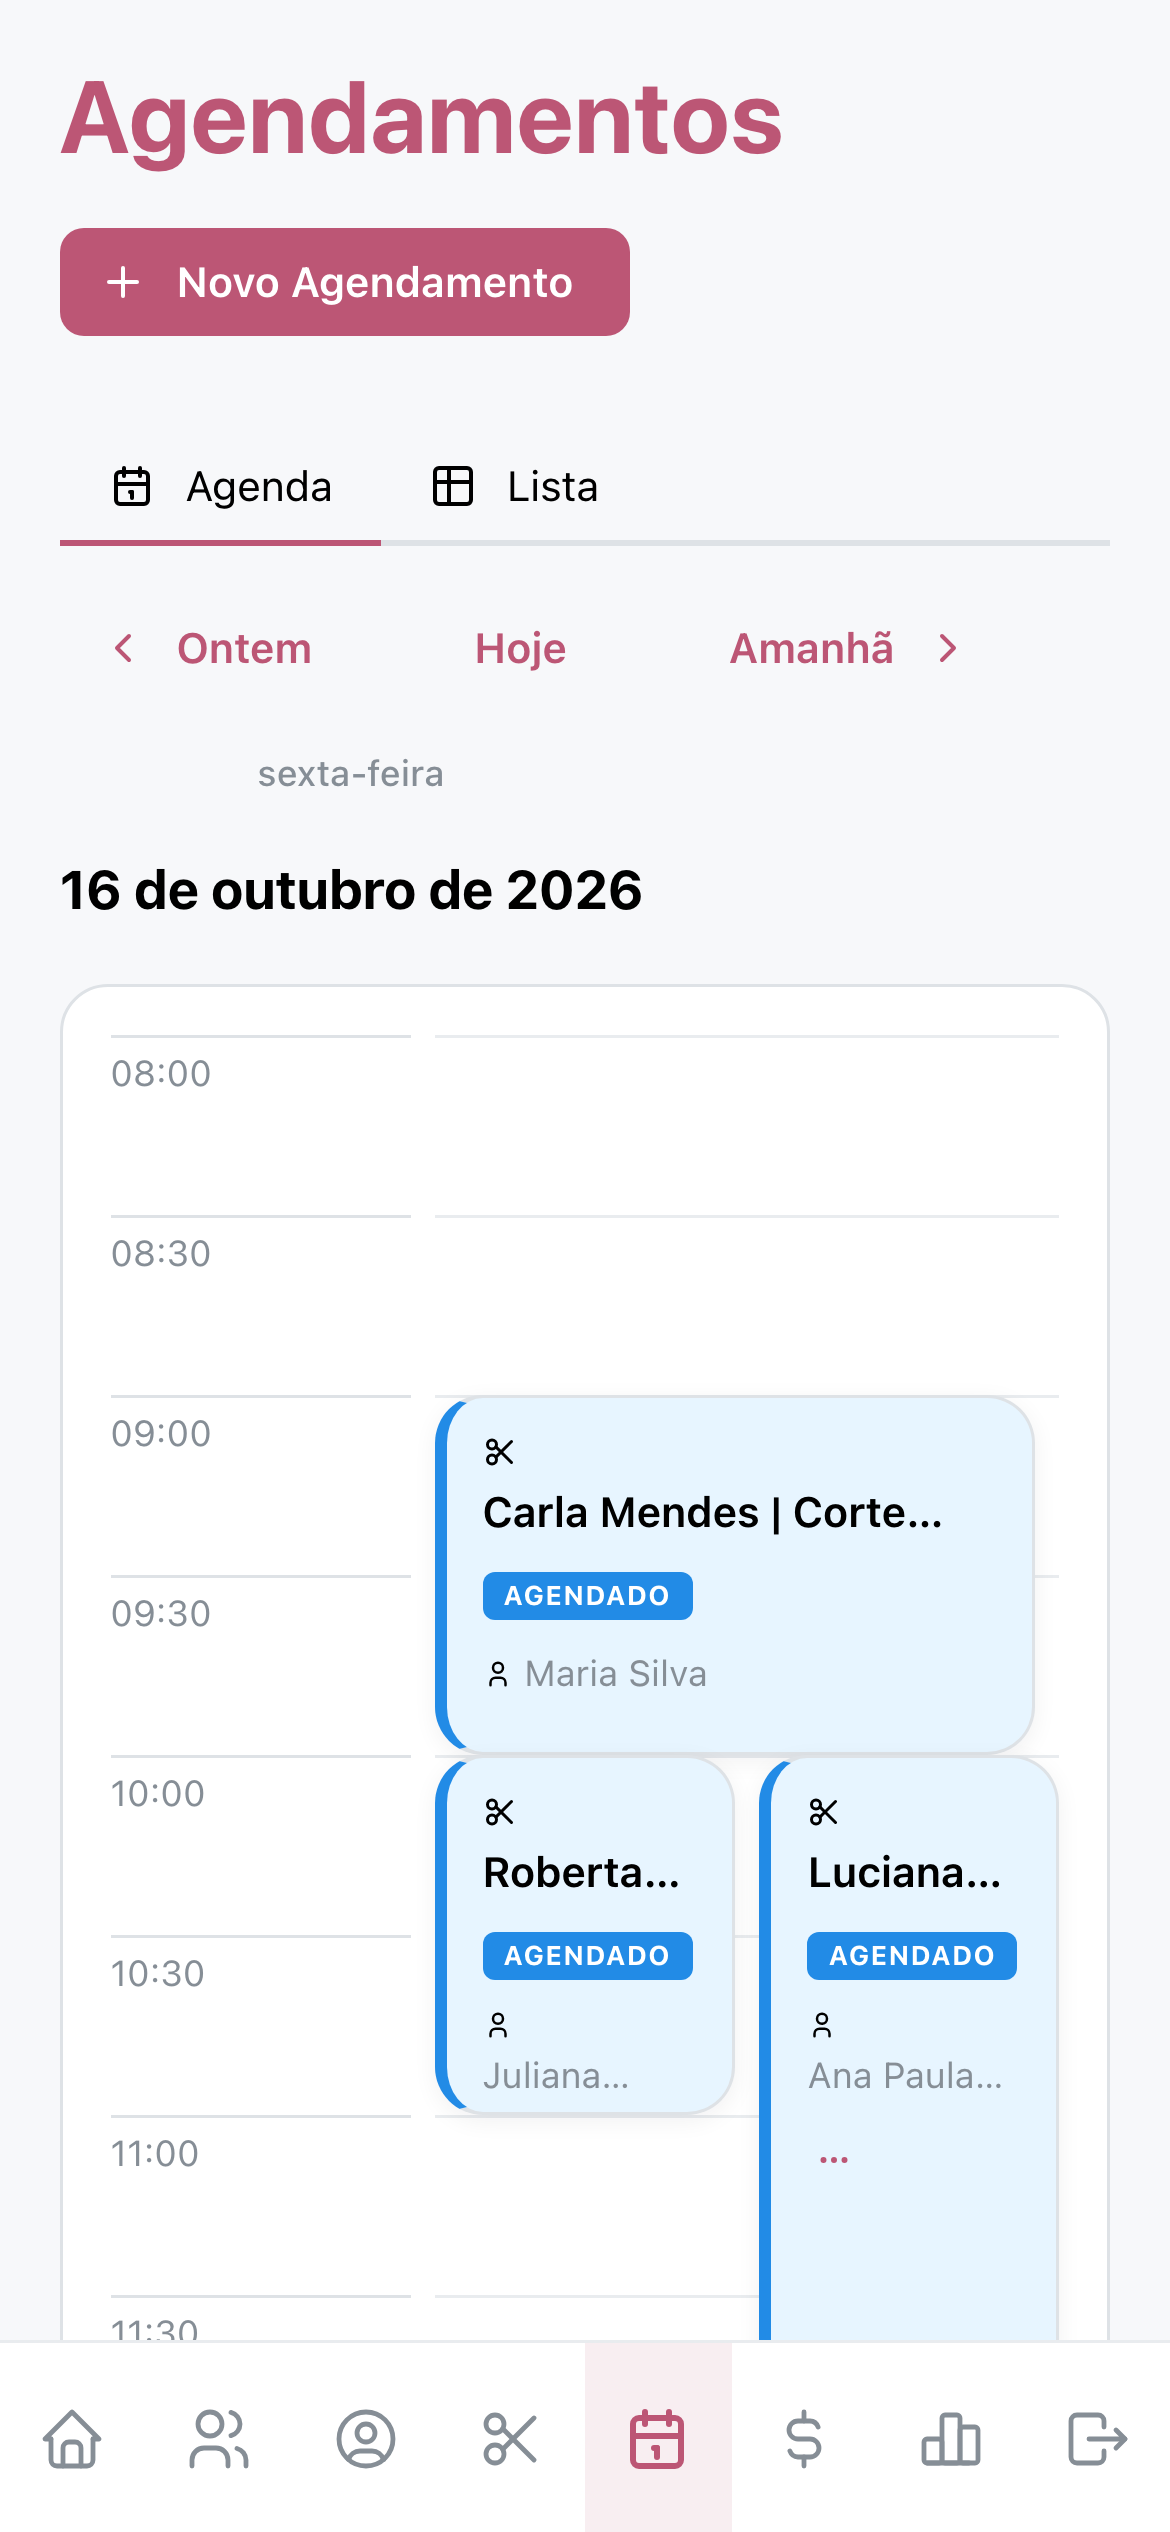
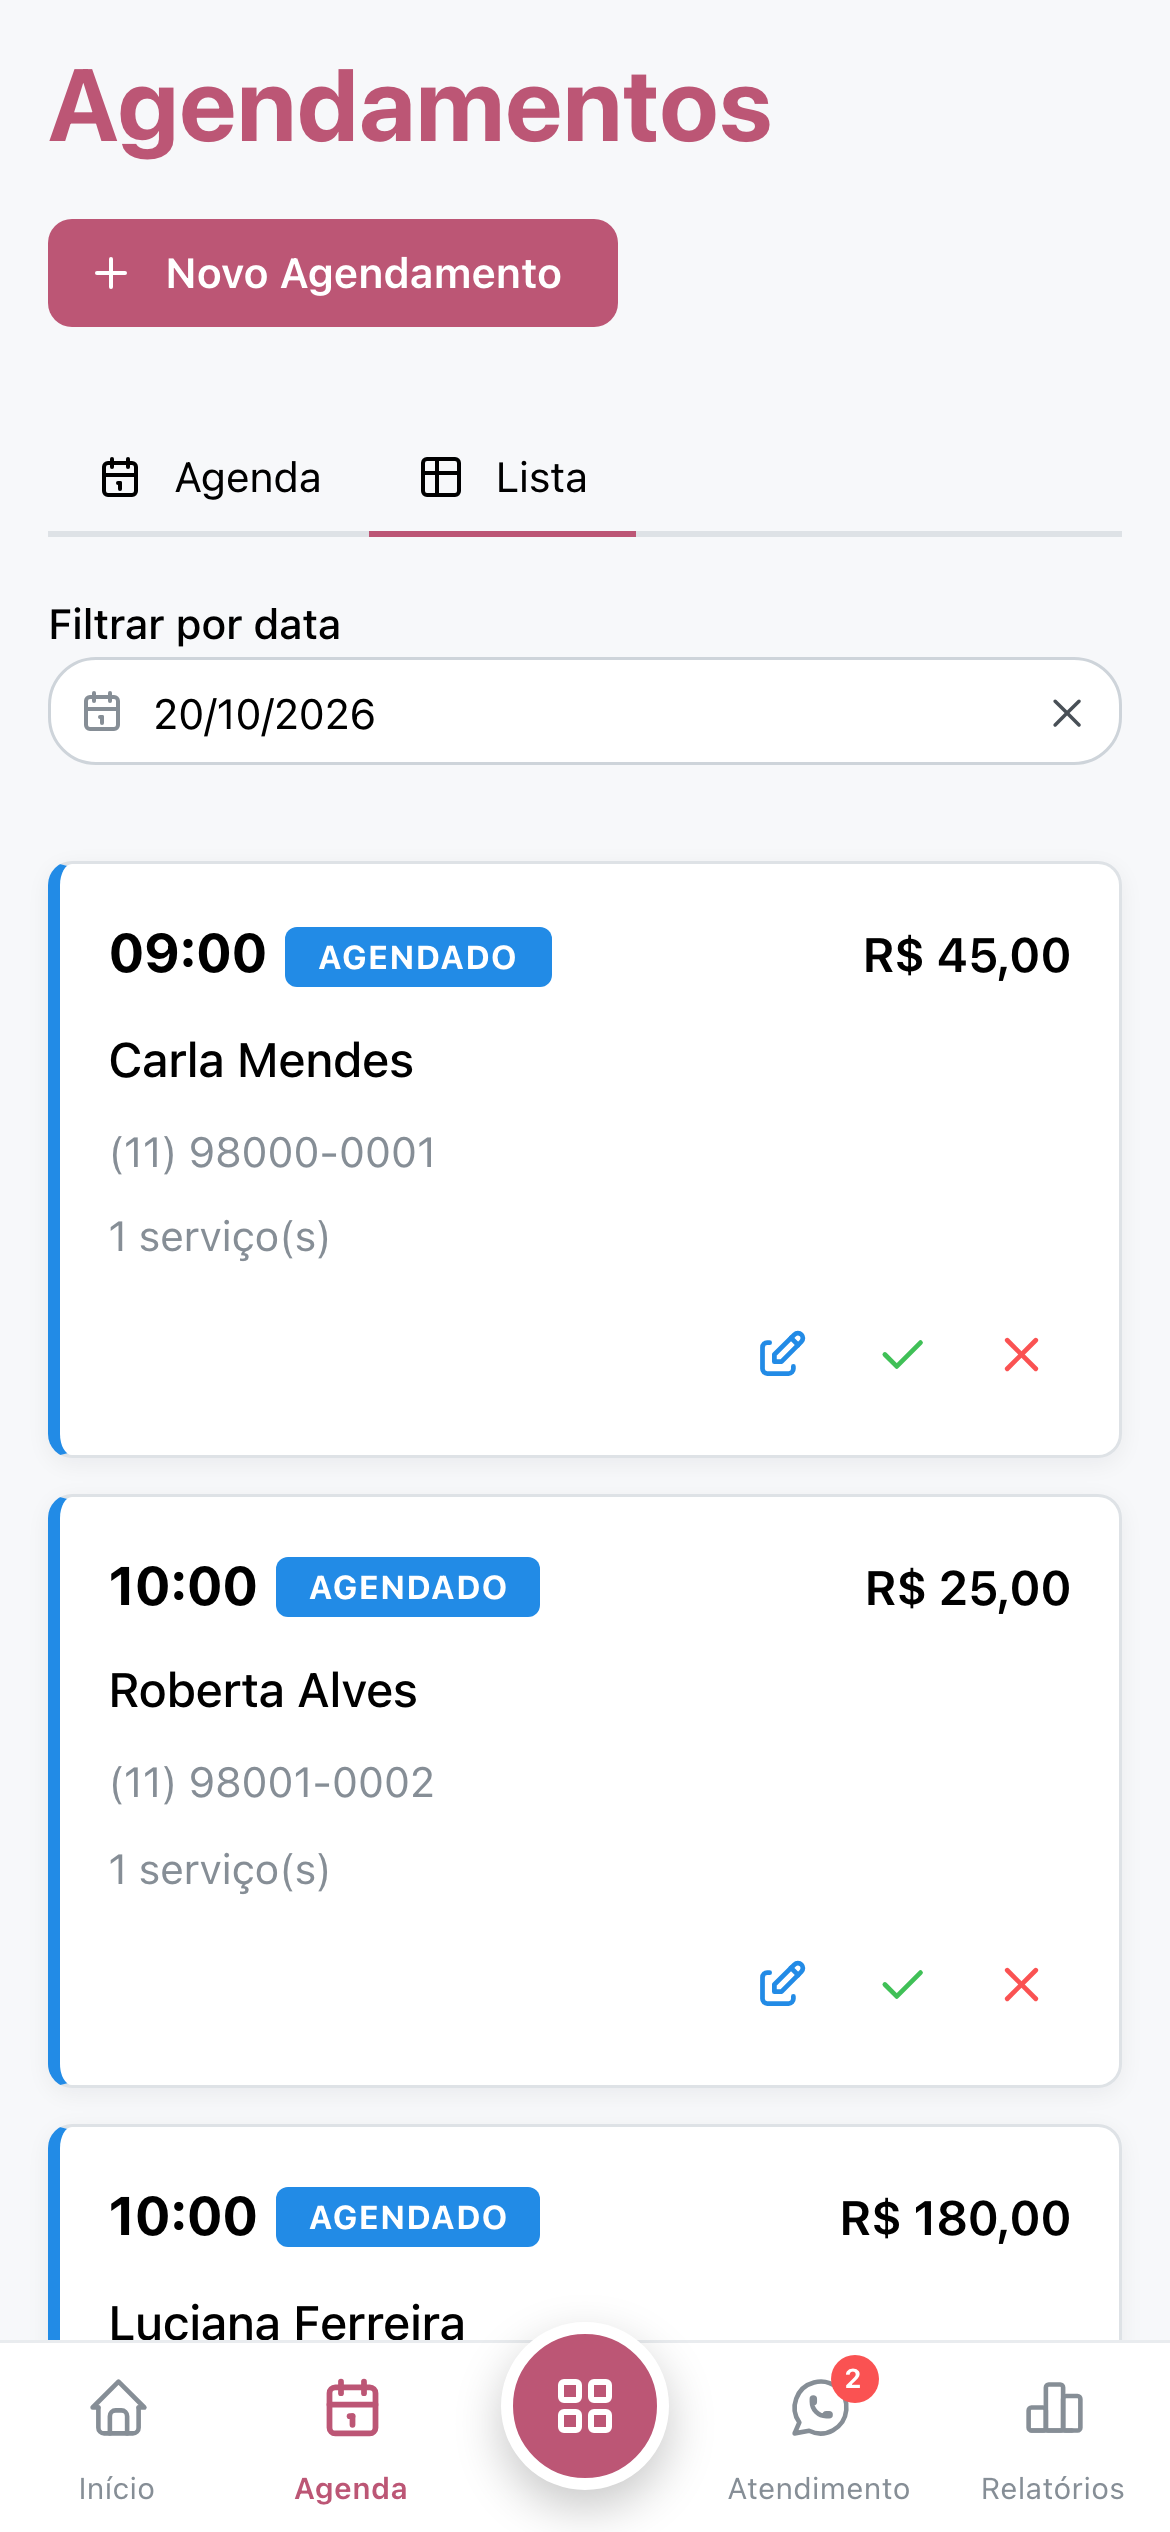
feat(landing): slide de prints mobile na apresentação
- recaptura prints mobile (dashboard, agenda, whatsapp, comissões, colaborador)
- novo slide 'No celular' com 3 telefones (WhatsApp, gestão, profissional)

diff --git a/landing/src/pages/PresentationPage.tsx b/landing/src/pages/PresentationPage.tsx
@@ -20,6 +20,7 @@ import {
   IconCheck,
 } from '@tabler/icons-react'
 import { BrowserFrame } from '../components/BrowserFrame'
+import { PhoneFrame } from '../components/PhoneFrame'
 import { Logo } from '../components/Logo'
 import { whatsappLink } from '../branding'
 
@@ -281,6 +282,46 @@ const slides: { id: string; dark?: boolean; content: ReactNode }[] = [
         alt="Relatórios financeiros"
         url="app.ageendoo.com/financial-reports"
       />
+    ),
+  },
+  // 6 — No celular (prints mobile)
+  {
+    id: 'mobile',
+    content: (
+      <Stack w="100%" gap="lg" align="center">
+        <Stack gap={4} align="center" ta="center">
+          <Badge variant="light" color="brand" radius="sm">
+            No celular
+          </Badge>
+          <Title order={2} fz={{ base: 24, sm: 36 }}>
+            Na palma da mão, como um aplicativo
+          </Title>
+          <Text c="dimmed" maw={620}>
+            Instala direto na tela inicial. O recepcionista atende pelo WhatsApp e
+            cada profissional acompanha a própria agenda e comissão.
+          </Text>
+        </Stack>
+        <Group justify="center" gap="xl" wrap="wrap" align="flex-start">
+          <Stack align="center" gap="xs">
+            <PhoneFrame src="/demo-mobile/whatsapp.png" alt="WhatsApp no celular" />
+            <Text size="sm" c="dimmed" fw={600}>
+              Atendimento por WhatsApp
+            </Text>
+          </Stack>
+          <Stack align="center" gap="xs">
+            <PhoneFrame src="/demo-mobile/dashboard.png" alt="Início no celular" />
+            <Text size="sm" c="dimmed" fw={600}>
+              Gestão do dia a dia
+            </Text>
+          </Stack>
+          <Stack align="center" gap="xs">
+            <PhoneFrame src="/demo-mobile/colaborador.png" alt="App do profissional" />
+            <Text size="sm" c="dimmed" fw={600}>
+              Agenda e comissão do profissional
+            </Text>
+          </Stack>
+        </Group>
+      </Stack>
     ),
   },
   // 7 — Fechamento / CTA
